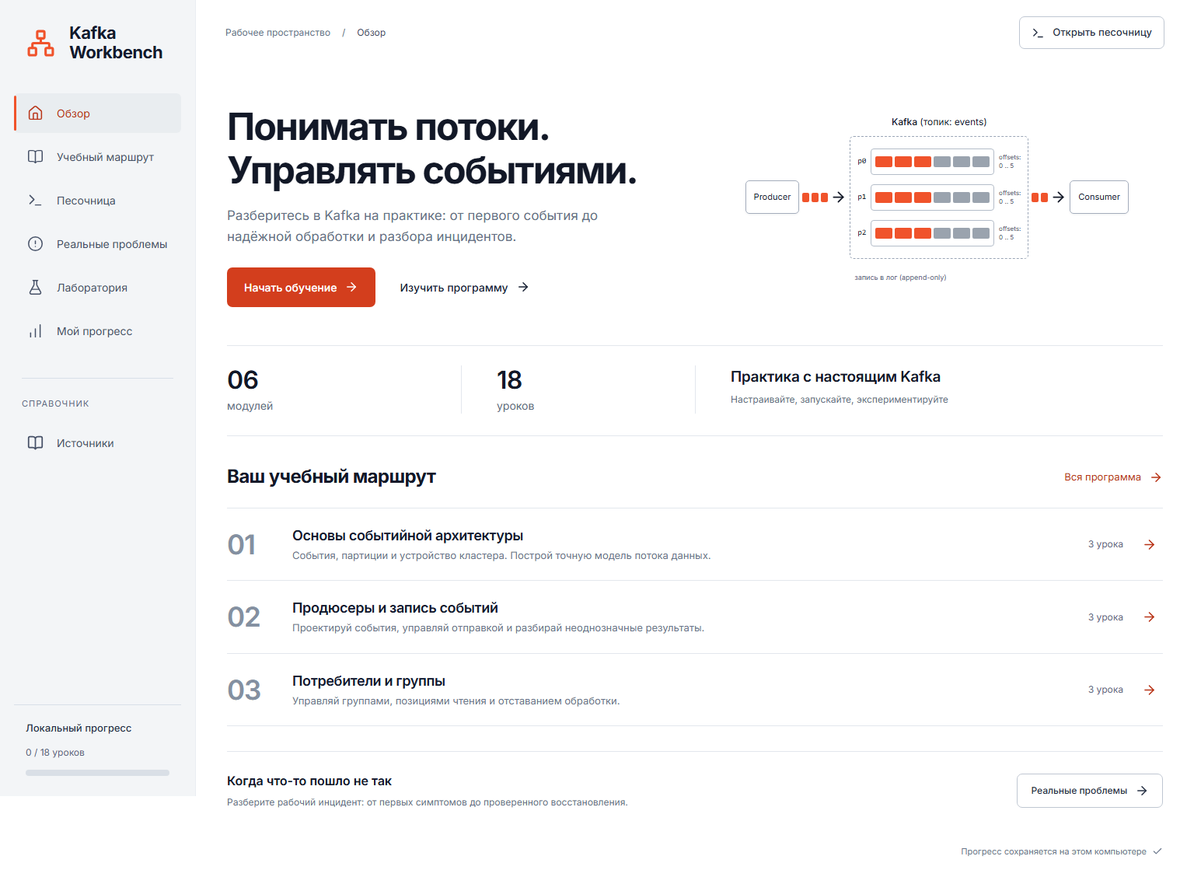
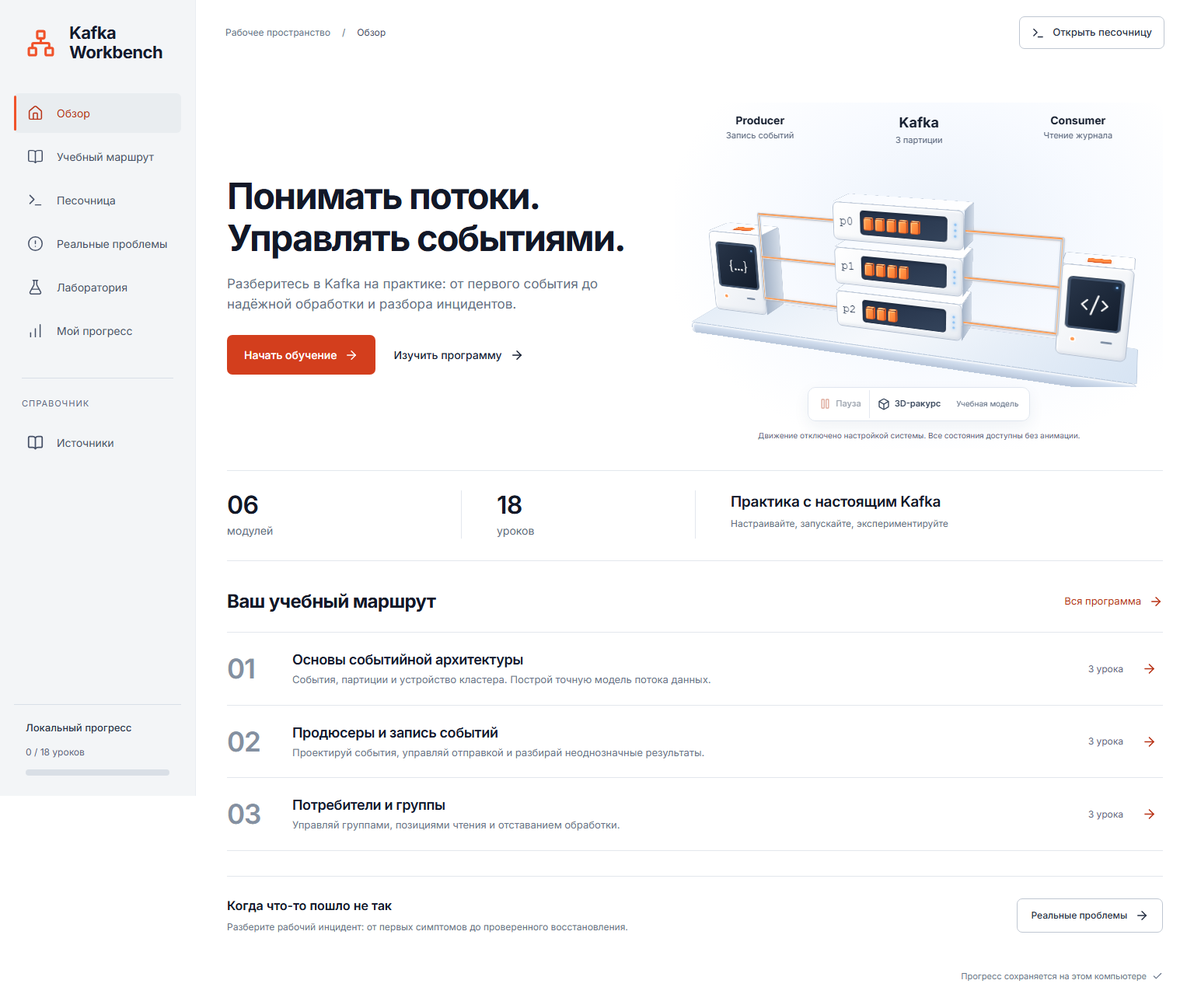
docs: record verified motion behavior and update product preview

diff --git a/docs/MOTION-DESIGN.md b/docs/MOTION-DESIGN.md
@@ -37,3 +37,23 @@
 - [MDN: prefers-reduced-motion](https://developer.mozilla.org/en-US/docs/Web/CSS/Reference/At-rules/prefers-reduced-motion): статичное представление при системном предпочтении уменьшенного движения.
 
 Этот этап улучшает визуальный слой работающего учебного продукта. Он не является заявлением о внешней сертификации или подтверждённом соответствии уровню конкретной компании.
+
+## Приёмка 2026-11-05
+
+Реализация: `afe5c46`. Один общий `SpatialFlow` используется на трёх экранах. `useSceneMotion` объединяет системное предпочтение, видимость вкладки и IntersectionObserver. Движение маркеров выполняет CSS, один таймер ограничивает действие песочницы 2200 мс активного времени. Чтение и запись показывают один маркер на затронутую партицию; максимум шесть записей в каждом объёмном лотке служат компактным представлением, точные числа и полный журнал доступны рядом. Одновременные быстрые действия отображают последнее действие, все события сохраняются в модели.
+
+Проверены TypeScript, Vite, 41 unit-тест (один отдельный live Kafka пропущен) и единый прогон 17/17 браузерных сценариев. Сравнение концепта и скриншота выполнено на 1536x1024; вручную проверены desktop и 375 px во встроенном браузере. Автоматические проверки включают 320/375 px, доступность, отсутствие ошибок, остановку фактических часов анимации, неизменность данных при смене камеры, reduced motion и остановку истории вне экрана. Тест скрытой вкладки подаёт synthetic visibilitychange и проверяет обработчик; физическое переключение вкладок этим тестом не подтверждается.
+
+### Сравнение с визуальным референсом
+
+| Аспект                      | Референс и результат                                                                         | Решение                                                                                                                                      |
+| --------------------------- | -------------------------------------------------------------------------------------------- | -------------------------------------------------------------------------------------------------------------------------------------------- |
+| Композиция                  | Слева учебный заголовок и действия, справа сцена; ниже статистика, маршрут, вход в инциденты | Сохранены структура рабочего пространства и существующий текст курса; страница длиннее концепта из-за прежних отступов и строк уроков        |
+| Пространство                | Светлые станции, тёмные экраны, три лотка, общая плита                                       | Реализованы отдельные CSS 3D-грани; исправлен наклон камеры, чтобы были видны верх и боковые поверхности                                     |
+| Материалы                   | Белые поверхности, холодные тени, оранжевые события                                          | Цвета и светотень перенесены в CSS; геометрия намеренно схематична для управления состояниями, без растровой подмены сцены                   |
+| Связи                       | Пути между producer, партициями и consumer                                                   | Добавлены вертикальные соединения трёх рельсов, устраняющие визуально оборванные пути                                                        |
+| Текст и элементы управления | Inter, понятные подписи, панель под сценой                                                   | Управление остаётся обычными HTML-кнопками; исходные тексты и более контрастный акцент сохранены вместо сгенерированного текста              |
+| Мобильный экран             | Та же визуальная система на узкой ширине                                                     | Сцена масштабируется; подписи и состояния остаются вне 3D-преобразования, минимальные мобильные подписи увеличены до 11 px                   |
+| Движение                    | События и смена проекции                                                                     | Проверяется по currentTime реальной CSS-анимации; при паузе время не меняется. Нулевые скорости и заблокированные пути не доставляют маркеры |
+
+Внешняя система инцидента представлена читаемым статусом, а не четвёртой объёмной станцией. Концепт не содержит настоящих метрик, поэтому числовые значения инцидента всегда берутся из выбранного кадра. Новые зависимости и внешние запросы для графики не добавлены.

diff --git a/docs/VERIFICATION.md b/docs/VERIFICATION.md
@@ -62,6 +62,21 @@ axe-core с правилами WCAG 2.2 AA не нашёл нарушений н
 
 Последующие изменения документации описывают эти уже полученные результаты; идентификатор проверенного commit указан явно и не заменяется утверждением о любом будущем состоянии ветки.
 
+## Обновление графики 2026-11-05
+
+Пространственная визуализация проверена на commit `afe5c46`, дополнение Windows launcher на `726cd3e`. Среда: Windows, Node.js 24.22.1, Playwright Chromium 1243.
+
+- TypeScript и production-сборка Vite завершились успешно. JavaScript: 297.82 kB (91.33 kB gzip), CSS: 48.51 kB (11.43 kB gzip). Новых зависимостей нет.
+- После обновления Vite до 8.3.5, body-parser до 2.4.0 и qs до 6.17.1 npm audit показывает 0 известных уязвимостей. Это исправляет сбой аудита в первом запуске CI этого этапа.
+- Unit: 42 обнаружено, 41 pass, один явный skip настоящего Kafka, 0 fail.
+- E2E: единый полный прогон 17/17 pass за 54.9 с. Восемь новых сценариев проверяют движение и дополняют девять существующих; существующие проверки доступности, сохранения, отрицательных действий и всех шести инцидентов проходят.
+- Пауза проверена сравнением currentTime анимаций после завершения pending pause; движение действительно останавливается. Проверены конечные действия песочницы, смена группы, reset, 60 событий без роста количества маркеров, нулевой поток и блокировка пути.
+- Проверены reduced motion и остановка таймера истории вне экрана. Проверка document.hidden использует synthetic visibilitychange; это тест обработчика, не подтверждение физического переключения вкладок.
+- Встроенный браузер отдельно использован для осмотра desktop и 375 px, переключения проекции, паузы, отправки трёх событий, чтения и commit. Ошибок в консоли при этих действиях не обнаружено.
+- `-UseExistingBuild`: PowerShell parsing и загрузка runtime-зависимостей успешны. Отсутствие dist и зависимостей в изолированной временной копии приводит к отказу без запуска сервера. Штатные Stop и Start на 4184 успешны; повторный Start сохранил тот же PID. SHA-256 ответа `/api/progress` до и после перезапуска совпал. Сервер слушает только 127.0.0.1.
+
+Проверка визуальных отличий и принятых упрощений: [MOTION-DESIGN.md](MOTION-DESIGN.md). Исторические результаты настоящего Kafka и чистой установки выше относятся к указанным там commits; новая локальная проверка Docker для визуального этапа не выполнялась.
+
 ## Ограничения
 
 Один доверенный локальный пользователь, одна SQLite-база на установку. Нет проверенной многопользовательской изоляции, публичного хостинга или нагрузочных гарантий. Один реальный брокер не доказывает высокую доступность и восстановление реплик. Модель не исполняет реальные сетевые таймеры и протоколы Kafka. macOS отдельно не проверялся. Не проводились пользовательское исследование, внешний аудит безопасности и сертификация доступности.

diff --git a/docs/PLAN.md b/docs/PLAN.md
@@ -11,6 +11,8 @@
 7. Опубликовать отдельный публичный GitHub-репозиторий, проверить CI и чистое клонирование.
 8. Дополнение пользователя от 2026-10-07: добавить отдельный раздел повседневных инженерных проблем с управляемой анимацией и визуализацией. Шесть кейсов Kafka: отставание группы, некорректное событие, advertised.listeners, недостаточный ISR, заполнение диска, дубли внешних операций. Требовать наблюдения, диагностику, исправление и отдельную проверку восстановления; сохранять результат на сервере, проверять ошибочные действия и восстановление.
 9. По прямому поручению пользователя передать этот пункт в цели всех чатов проекта «Тренажёры». Сообщения направлены в существующие чаты Terraform, troubleshooting, PostgreSQL, Ansible, Jenkins, Python и Kubernetes. Во всех семи read-only проверка подтвердила сохранённые планы или спецификации с инцидентами, визуализацией, управлением воспроизведением, последствиями ошибок, прогрессом и проверками. Их реализация ведётся в соответствующих репозиториях, независимо от выпуска Kafka. Выпуск Kafka не означает автоматического завершения остальных семи проектов.
+10. Дополнение пользователя: профессиональная динамическая графика, объёмный 3D-дизайн и анимации во всех тренажёрах. Для Kafka реализован общий визуальный компонент обзора, песочницы и инцидентов; движение отражает состояние модели, предусмотрены пауза, плоская проекция, reduced motion, остановка вне экрана и на скрытой вкладке. Спецификация и проверка: [MOTION-DESIGN.md](MOTION-DESIGN.md).
+11. Общее требование к графике сохранено в родительском `AGENTS.md` проекта. Проверка 2026-11-05 подтвердила постоянные планы или спецификации у всех семи остальных тренажёров. Прерванная работа Jenkins возобновлена. Готовность Kafka не означает, что все остальные тренажёры уже завершили свой визуальный этап.
 
 Дизайн: белый основной фон, прохладная серая боковая навигация, Inter, акцент #e34825, тонкие разделители, нативные схемы потоков. Главный экран по design/concept.png. Дополнительные экраны нужны для рабочего учебного цикла, используют те же типографику и компоненты.
 

diff --git a/README.md b/README.md
@@ -26,6 +26,7 @@ GitHub предоставляет исходники и автоматическ
 
 - **18 уроков в 6 модулях:** основы, запись, потребители, надёжность, эксплуатация и архитектура. В каждом уроке теория, проверка понимания, инженерная ситуация, объяснение ответа и первоисточники.
 - **Песочница событий:** отправка ключей в партиции, чтение, отдельный commit, перезапуск с повторной доставкой, независимые группы, назначение потребителей и committed lag.
+- **Динамические 3D-сцены:** объёмные станции и партиции в обзоре, песочнице и инцидентах. Движение связано с действиями и состоянием модели, есть пауза, плоская проекция и поддержка уменьшения движения. Фоновая или невидимая сцена не продолжает воспроизведение истории.
 - **Реальные проблемы:** шесть типовых инцидентов с наблюдениями, гипотезой, исправлением, последствиями ошибок и отдельной проверкой восстановления. Визуализация показывает состояние потока, анимированное движение событий и историю изменений с паузой и шагами.
 - **Настоящая лаборатория:** Apache Kafka 4.2.2, KRaft, создание топика с тремя партициями, запись трёх заказов с ключами, чтение группы и проверка реальных offsets.
 - **Сохранение:** SQLite хранит результаты, попытки, заметки и состояния инцидентов. Есть повторение ошибок, JSON-экспорт и явный сброс.
@@ -56,6 +57,8 @@ npm audit --audit-level=high
 В разработке используйте два терминала: `npm run server` и `npm run dev`. Интерфейс доступен на `http://127.0.0.1:5184`, запросы API идут через ограниченный локальный proxy на `4184`.
 
 Фактические результаты проверок и ограничения: [VERIFICATION.md](docs/VERIFICATION.md). Состав workflow сам по себе не доказывает успешный CI.
+
+Архитектура пространственной графики, ограничения и критерии приёмки: [MOTION-DESIGN.md](docs/MOTION-DESIGN.md).
 
 ## Устройство
 
